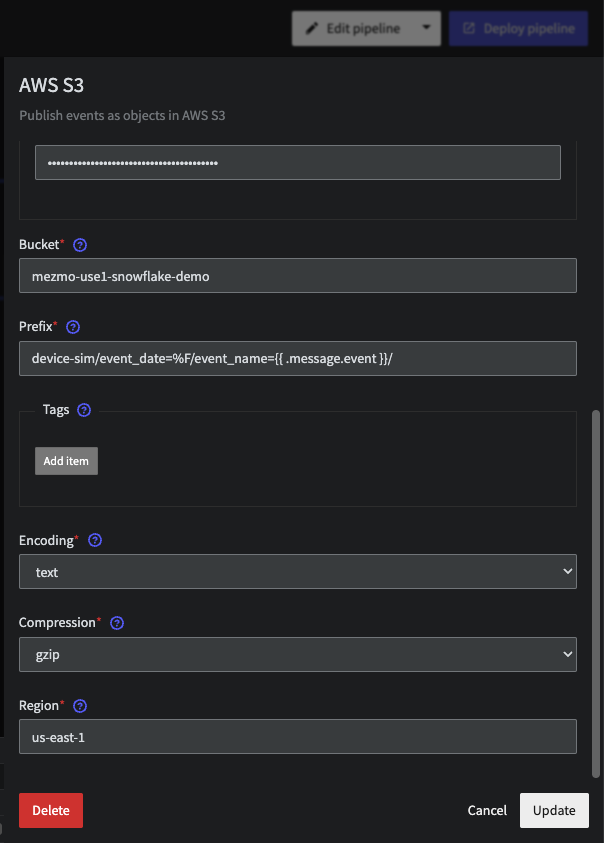
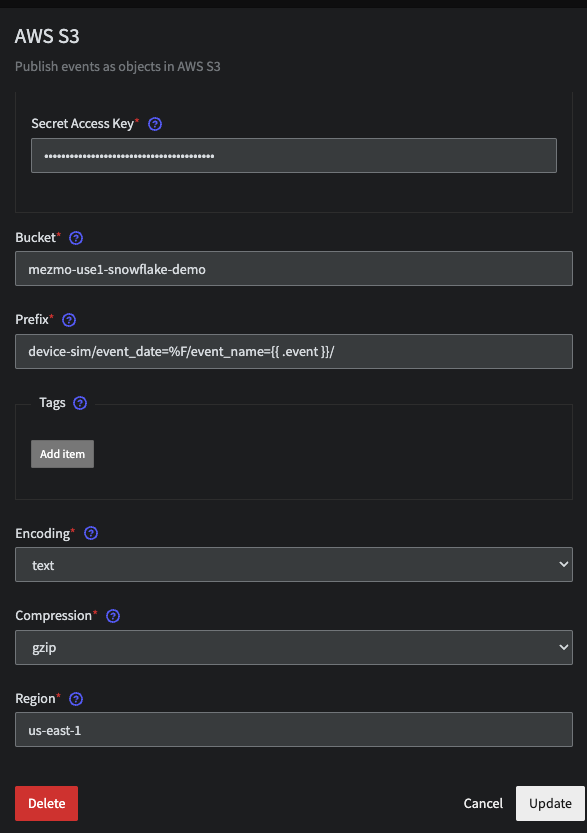
Updated s3 connection info

diff --git a/content/en/s3-to-snowflake/docs/create-pipeline.md b/content/en/s3-to-snowflake/docs/create-pipeline.md
@@ -52,7 +52,7 @@ With access information in hand
 * Give this Destination the title `Snowflake Bucket`
 * Enter your `Access Key ID` and `Secret Access Key`
 * Enter `Bucket` name (we will go with `mezmo-use1-snowflake-demo`)
-* Enter the prefix of `device-sim/event_date=%F/event_name={{ .message.event }}/`.  This prefix allows for dynamic location routing and will store data including date and event name coming from the event field.  Example `device-sim/event_date=2022-11-09/event_name=transaction/`
+* Enter the prefix of `device-sim/event_date=%F/event_name={{ .event }}/`.  This prefix allows for dynamic location routing and will store data including date and event name coming from the event field.  Example `device-sim/event_date=2022-11-09/event_name=transaction/`
 * Chose `text` for the `Encoding`, with a compression of `gzip`
 * Select the `Region` where you created your bucket (in this example we use `us-east-1`)
 * Click the `save` button
